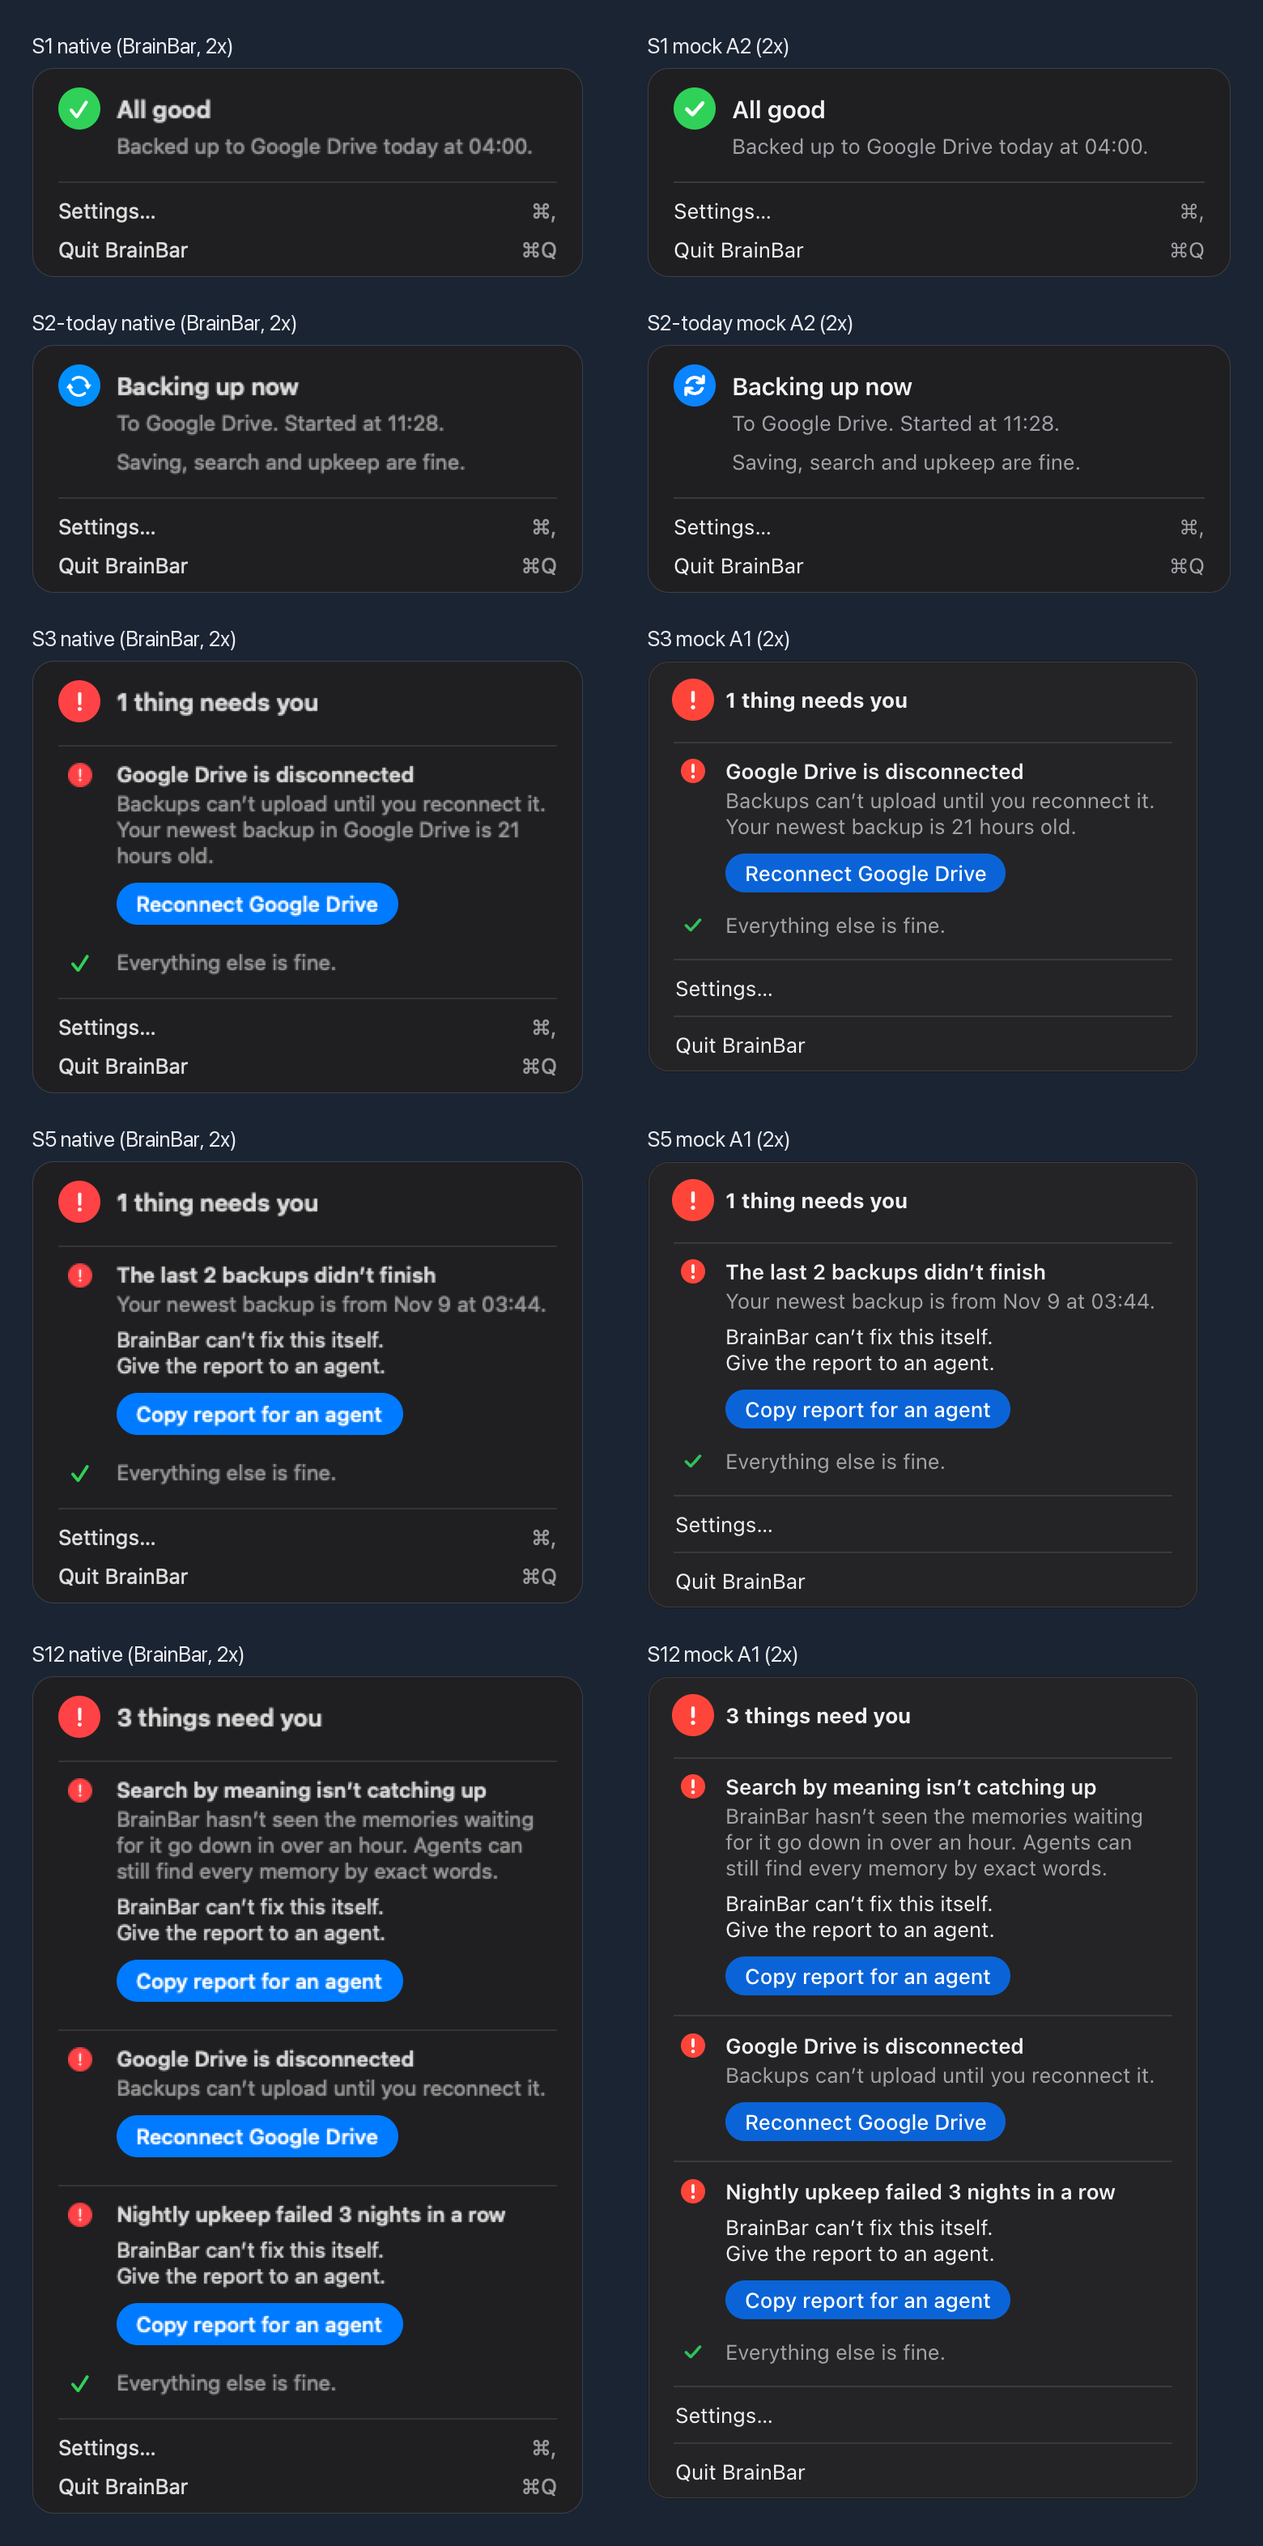
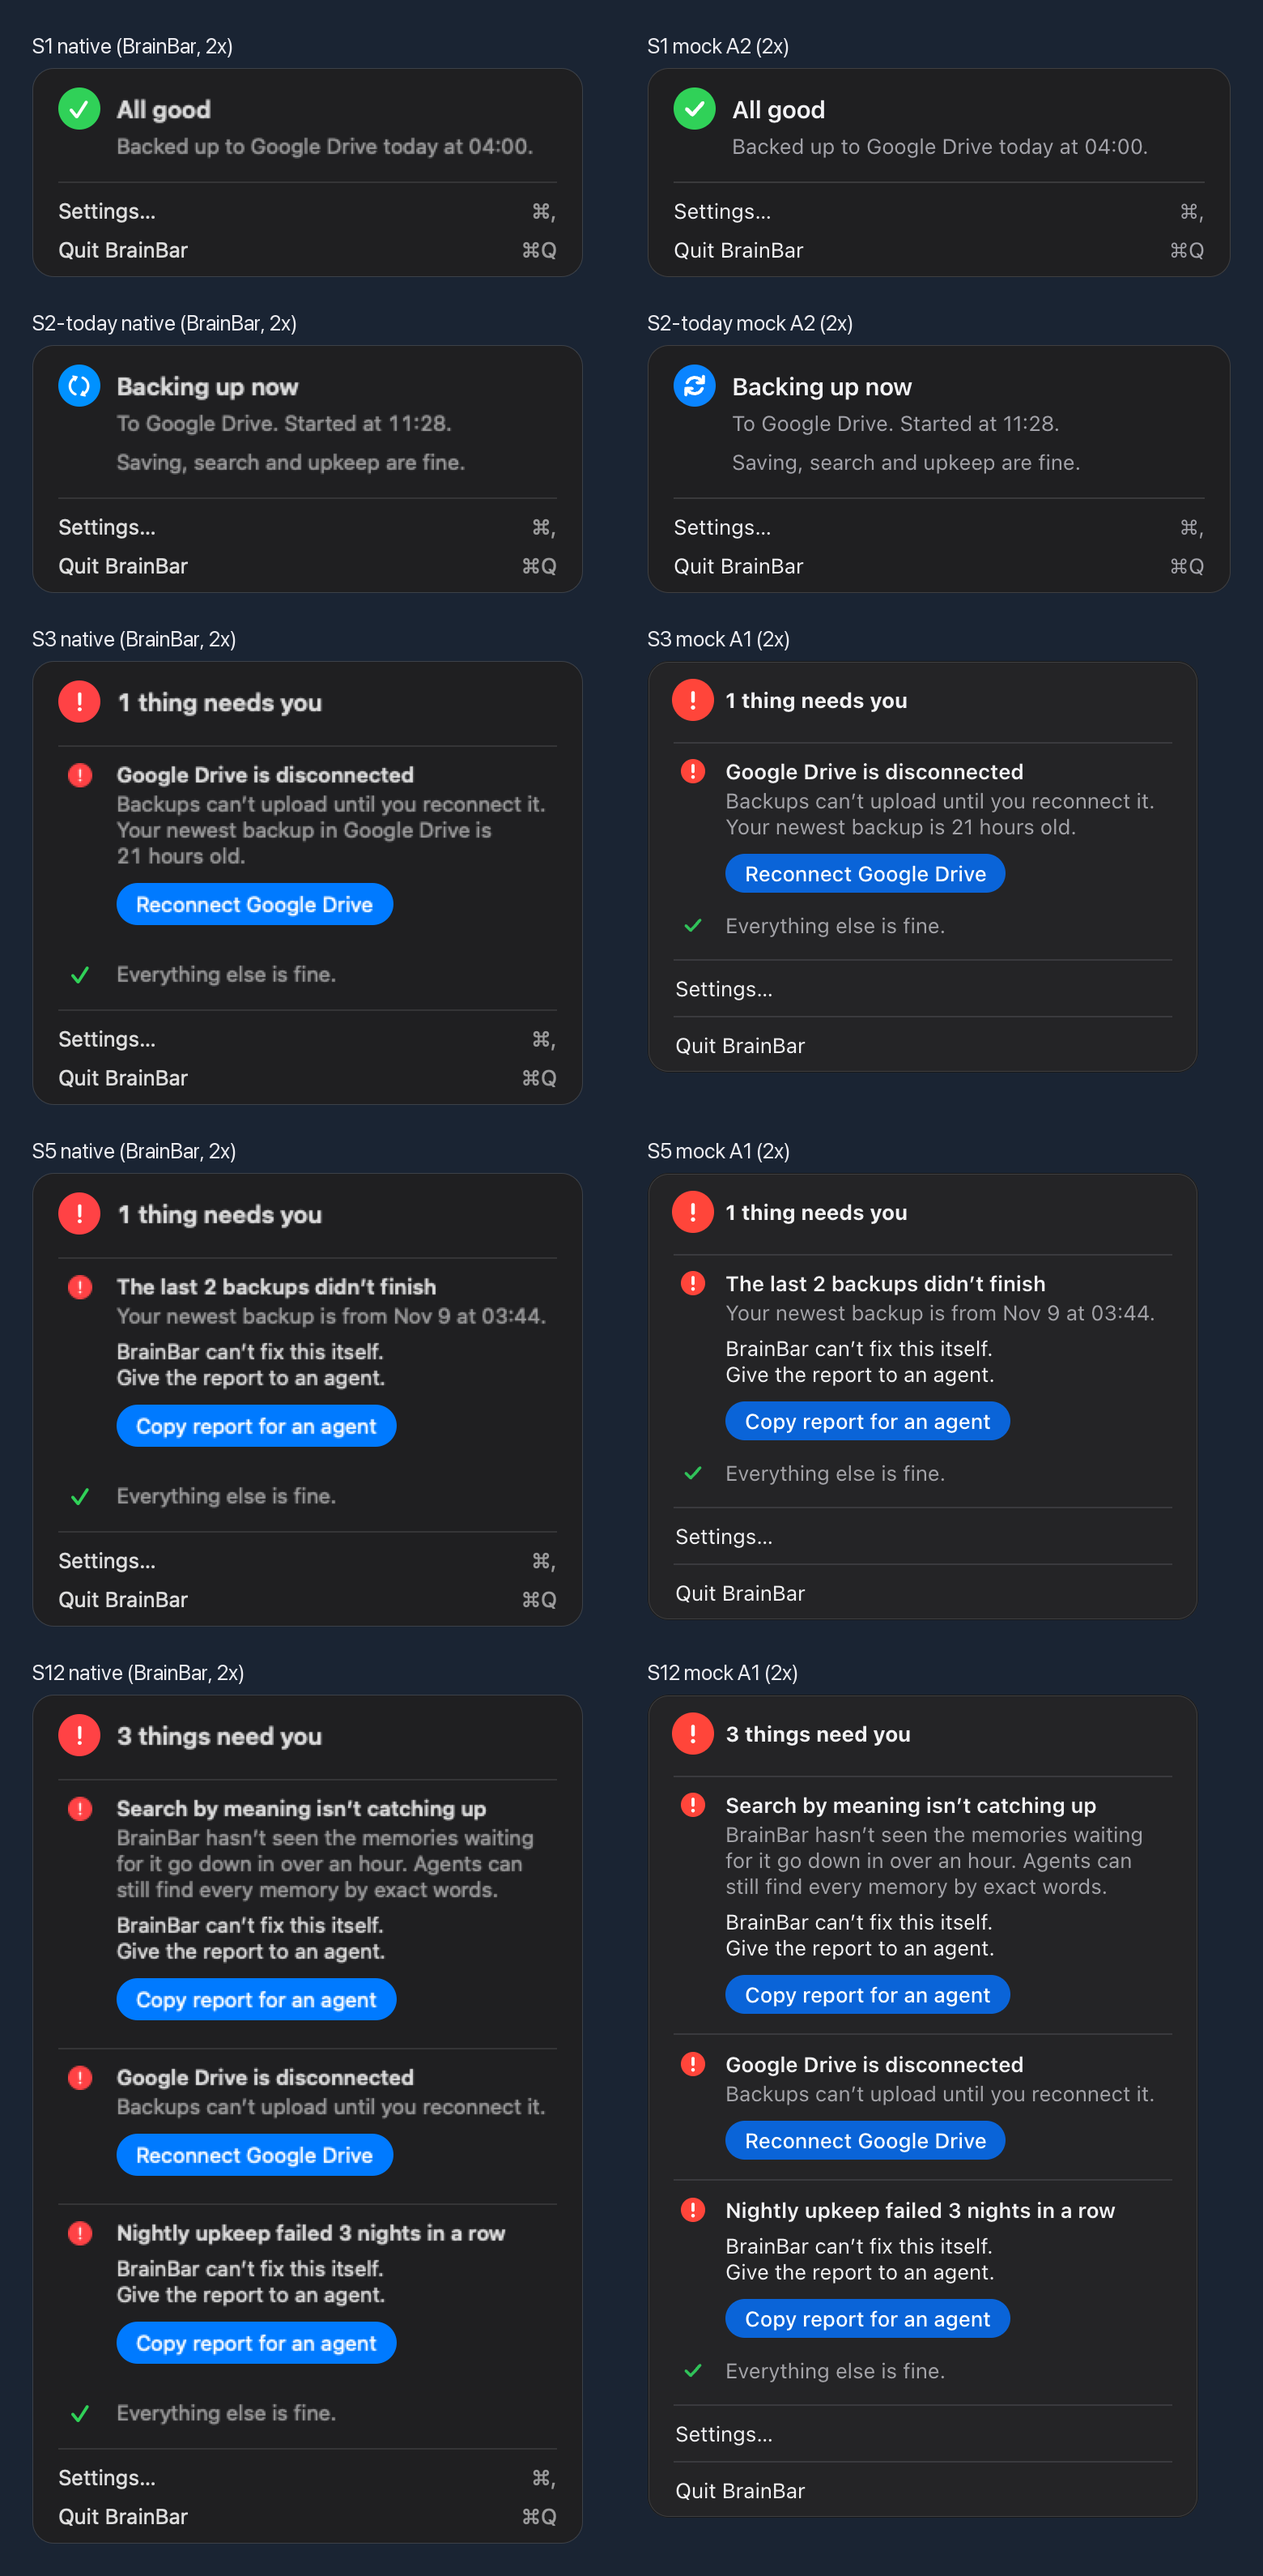
docs(brainbar): round-1 contact sheets and differences for #1789 (rendered at f4658af2)
Assembled off-screen from the real hosted rows and items; not a screenshot of an open menu, and no motion.

diff --git a/brain-bar/docs/ui-renders/2026-11-13-menu-pr1/README.md b/brain-bar/docs/ui-renders/2026-11-13-menu-pr1/README.md
@@ -1,65 +1,65 @@
-# Contact sheets: native menu vs the mocks (menu PR 1, head c28f77d7)
+# Contact sheets: native menu vs the mocks (menu PR 1, fix round 1, head f4658af2)
 
 > **Not a screenshot of an open menu.** Assembled off-screen from the real hosted rows and the real menu items at the heights `NSMenu.size` measures; the material is flat.
-> A real open-menu capture on the M1 will add the system material, the real selection highlight and the real Option alternate swap.
+> It cannot show motion (the turning busy arrows, the spinner), a disabled standard item's style, or AppKit's own title sizing and truncation beside a key equivalent.
+> A real open-menu capture on the M1 will add the system material, the real selection highlight, the real Option alternate swap, those standard-item details and the motion.
 
 `contact-sheet-light.png` and `contact-sheet-dark.png`: left column is the native menu (BrainBar, off-screen, 2x), right column
 the mock render of the same state (A2 for the calm form: S1, S2-today; A1 for the needs form: S3, S5, S12), both at 2x, no
-scaling. Made by `make_contact_sheets.py` (kept with the full capture set in the plan folder, `phase-8-native-build/captures/menu-pr1/`).
+scaling. Made by `make_contact_sheets.py`, kept with the full capture set in the plan folder (`phase-8-native-build/captures/menu-pr1/`).
 
 ## Where native deliberately differs from the mocks, and why
 
 Layout and type
-1. **One width for both forms: 340 pt** (A1 340, A2 360). The menu must not change width when the form switches ("nothing
-   shifts on refresh").
-2. **One headline row in both forms: A2's**: 26 pt disc, 15 pt semibold. A1 drew its needs headline at 13 pt bold. Equal things
-   equal: the headline is the same row in both forms; only its disc and words change.
-3. **One text column in both forms: 52 pt (A2's)**, the row mark centred in the 26 pt gutter. A1's needs text sat at 48 pt. In
-   S3 the 4 pt difference wraps "…is 21 / hours old." where A1 wrapped "…is 21 hours old." (A1's own sentence was also shorter,
-   see 12).
-4. **Standard items are the system's**: titles at the 16 pt inset and the 24 pt row and 11 pt separator measured from
-   `NSMenu.size` on macOS 27. The mocks' values matched; nothing changed there.
-5. **One bottom block in both forms (ruling R4, A2's)**: no separator between Settings… and Quit BrainBar, and the key
-   equivalents shown (⌘, and ⌘Q). The A1 renders have a separator between them and no key equivalents.
+1. **One width for both forms: 340 pt** (A1 340, A2 360). The menu must not change width when the form switches.
+2. **One headline row in both forms: A2's** (26 pt disc, 15 pt semibold). A1 drew its needs headline at 13 pt bold.
+3. **One text column in both forms: 52 pt (A2's)**, with each row's mark centred in the 26 pt gutter. A1's needs text sat at 48 pt.
+4. **Standard items use the system's metrics**: titles at the 16 pt inset, a 24 pt row and an 11 pt separator, measured from
+   `NSMenu.size` on macOS 27. The mocks match.
+5. **One bottom block in both forms (ruling R4, A2's)**: no separator between Settings… and Quit, and key equivalents shown.
+6. **A number never ends a line apart from its unit, and a month stays with its day (R28a).** This is done in the view, for
+   line breaking only, so the words themselves do not change. S3 now breaks "…in Google Drive is / 21 hours old." and
+   S2-after-seam breaks at the sentence: "To Google Drive. Started at 11:28. / 40% done, about 12:48."
+7. **Digits are fixed-width (R28d)**, so a changing time or percentage cannot move a line break.
 
 Colour and marks
-6. **Secondary text is `secondaryLabelColor`**, the system's, which is lighter than the mocks' fixed #56565B / #5E5E63. Under
-   Increase Contrast it becomes the label colour.
-7. **Marks are SF Symbols in system colours** (`checkmark`, `arrow.triangle.2.circlepath`, `ellipsis`, `exclamationmark`,
-   `exclamationmark.circle.fill`) on drawn discs. The mocks used hand-drawn SVGs, so A2's busy arrows look slightly different.
-8. **The button fill is the system accent colour** (`Color.accentColor`), blue by default, not a fixed #0062D6. It follows
-   the owner's accent setting, as system prominent buttons do. **Flag for the lead:** he named "the blue button". If it must
-   stay blue under any accent, this is a one-word change to `.systemBlue`.
+8. **Secondary text is `secondaryLabelColor`**, the system's. It is lighter than the mocks' fixed greys. Under Increase
+   Contrast it becomes the label colour.
+9. **Marks are SF Symbols in system colours** on drawn discs.
+10. **Every status line has a mark (R28b).** It is the value's mark if the line has one. Otherwise it comes from the line's
+    state: a bare ellipsis, the size of the checkmark, for "can't tell" (S10's "Can’t confirm agents can search right now."),
+    and the spinner for "behind". A1's mock left that gutter empty. A headline's detail line is the one exception, because the
+    headline's disc already carries its state.
+11. **The busy arrows turn (R28c)**: one even, linear turn every 2 s while shown (S2-today, S2-after-seam, S7), and still under
+    Reduce Motion. A still catches them at an arbitrary angle, and no picture can show the motion.
+12. **The button fill is the system accent colour**, blue by default. **Flag:** Etan said "the blue button". If it must stay blue
+    under any accent setting, pinning it to `.systemBlue` is a one-word change.
 
-Controls and motion
-9. **The button is 26 pt tall** (A2's height; A1's was 24) with a 13 pt medium label, so its hit target is above the 24 pt
-   standard row.
-10. **Pressed state: a darker fill and a 0.97 scale, applied at once with no transition.** The mocks animate it over
-    120–140 ms, but the brief says nothing animates except a bar and a spinner. Under Reduce Motion the scale is dropped and
-    only the darker fill stays.
-11. **Keyboard focus is the system focus ring** (`keyboardFocusIndicatorColor`, 3 pt, 1 pt outside, concentric with the
-    button: radius 13 + 1 = 14 inner). It appears only when the arrow keys highlight the row, never on hover. The mock drew a
-    3 px rgba glow. (Pictures: `menu-S3-focus-*.png`.)
-12. **Words come from the presentation value, not the mocks.** S3 reads "Your newest backup in Google Drive is 21 hours old."
-    (ruling R15) where A1 drew "Your newest backup is 21 hours old.". Apostrophes are typographic (’) everywhere (R2); A2's S7
-    render had ASCII "Can't".
-13. **Progress bar: the native linear `ProgressView`** (system height and tint) instead of A2's 6 pt custom bar (S2-after-seam).
-14. **Spinner: the native mini `ProgressView`** in the gutter (S10). Under Reduce Motion it is a static arrows glyph
-    (`menu-S10-reduce-motion-*.png`).
+Controls
+13. **Button:** regular-weight 13 pt label, as the system draws one. It is at least 26 pt tall, and a long label wraps rather
+    than truncates (the button grows).
+14. **Pressed: the button only darkens, with no shrink**, as a native button does. Nothing animates except the bar, the spinner
+    and the busy arrows.
+15. **Keyboard focus uses the system focus ring**, concentric with the button. It appears only when the arrow keys highlight
+    the row, never on hover (`menu-S3-focus-*.png`).
+16. **"Everything else is fine." sits 10 pt clear of a Needs-you row above it**, so it does not read as part of that row. This
+    is space, not a divider; the value decides dividers.
+17. **The words come from the value**, not the mocks (R15, R2).
+18. **The progress bar and the spinner are the system's** (`ProgressView`). Under Reduce Motion the spinner is a static arrows
+    glyph.
 
 Harness, not design
-15. **The material is flat in these pictures** (#ECECEE / #1F1F21, radius 13, the mocks' values). An off-screen render cannot
-    draw the vibrant menu material; the real menu gets the system's material and corners.
-16. **Text renders slightly heavier off-screen** than in a real menu window or in the mocks' browser renders. This comes from
-    the bitmap context, not from the font weights set in code.
+19. **Flat material, slightly heavier text**, a standard item's title and key drawn by the harness, and no motion. See the
+    caption above.
 
-## Open taste point for the reviewer
-17. **S3's Drive fact line now wraps to three lines** ("…Your newest backup in Google Drive is 21 / hours old."), because ruling
-    R15 lengthened the sentence and the text column is 52 pt at a 340 pt width. Words and width are deliberately unchanged
-    here; judge it in `menu-S3-light.png` / `menu-S3-dark.png` (also `menu-C32-*.png`, same line) and on the contact sheets.
+## Left for the function lane (not accepted in this PR)
+- "Google Drive" still splits across lines inside S32's bold title ("…A backup to Google / Drive started…"). Keeping a name
+  together would need a word in a view, which ruling R28 does not allow.
 
-## Owner note N1 (an uploading backup)
-S2-today shows the blue busy disc with arrows, not a green light, and S2-after-seam adds the progress bar. N1 also asks for "a
-spinner or pulse". The value does not set `spinner` on S2's headline, and the brief allows no other animation, so the busy disc
-stays static. If the lead wants the disc to spin while uploading, the presentation value should carry that (the presenter sets
-`spinner`), not the view.
+## What only the real open menu on the M1 can show
+System material and secondary-text contrast on it; the real selection highlight, and whether an arrow-key highlight of a
+Needs-you row should also show the row highlight; whether Return on that row and a click on its button fire the action and
+close the menu; whether the spinner and the turning arrows run inside the menu's event-tracking loop; text weight; the accent
+in dark mode and under his own accent setting; the real Option swap; separator insets and corner radius; a disabled standard
+item's style; AppKit's title sizing and truncation beside a key equivalent; and VoiceOver: each hosted row read as one element
+in order, the button as its own element, and the marks silent.
